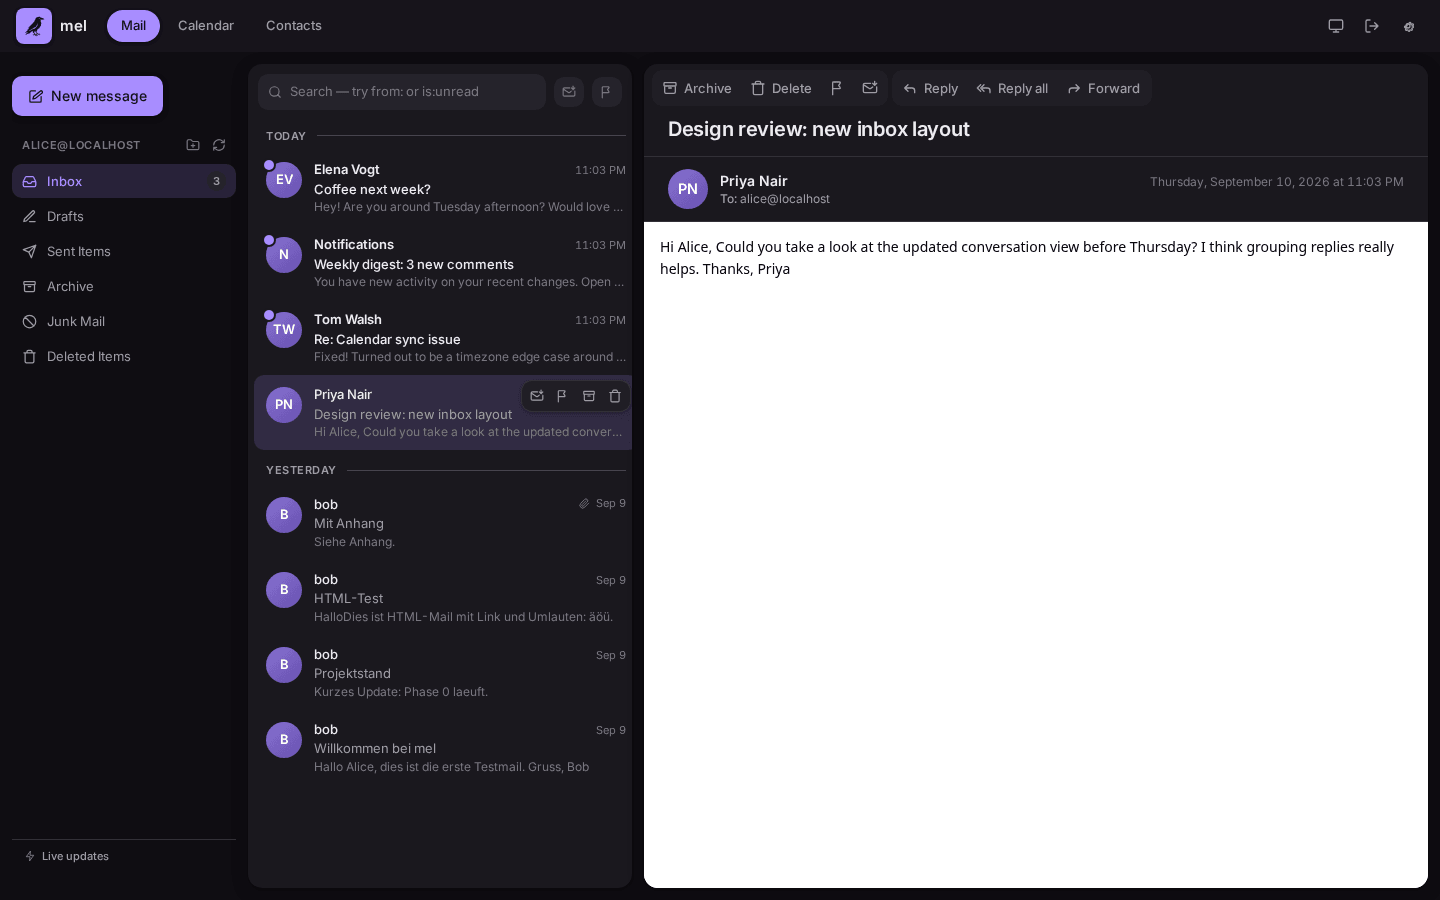
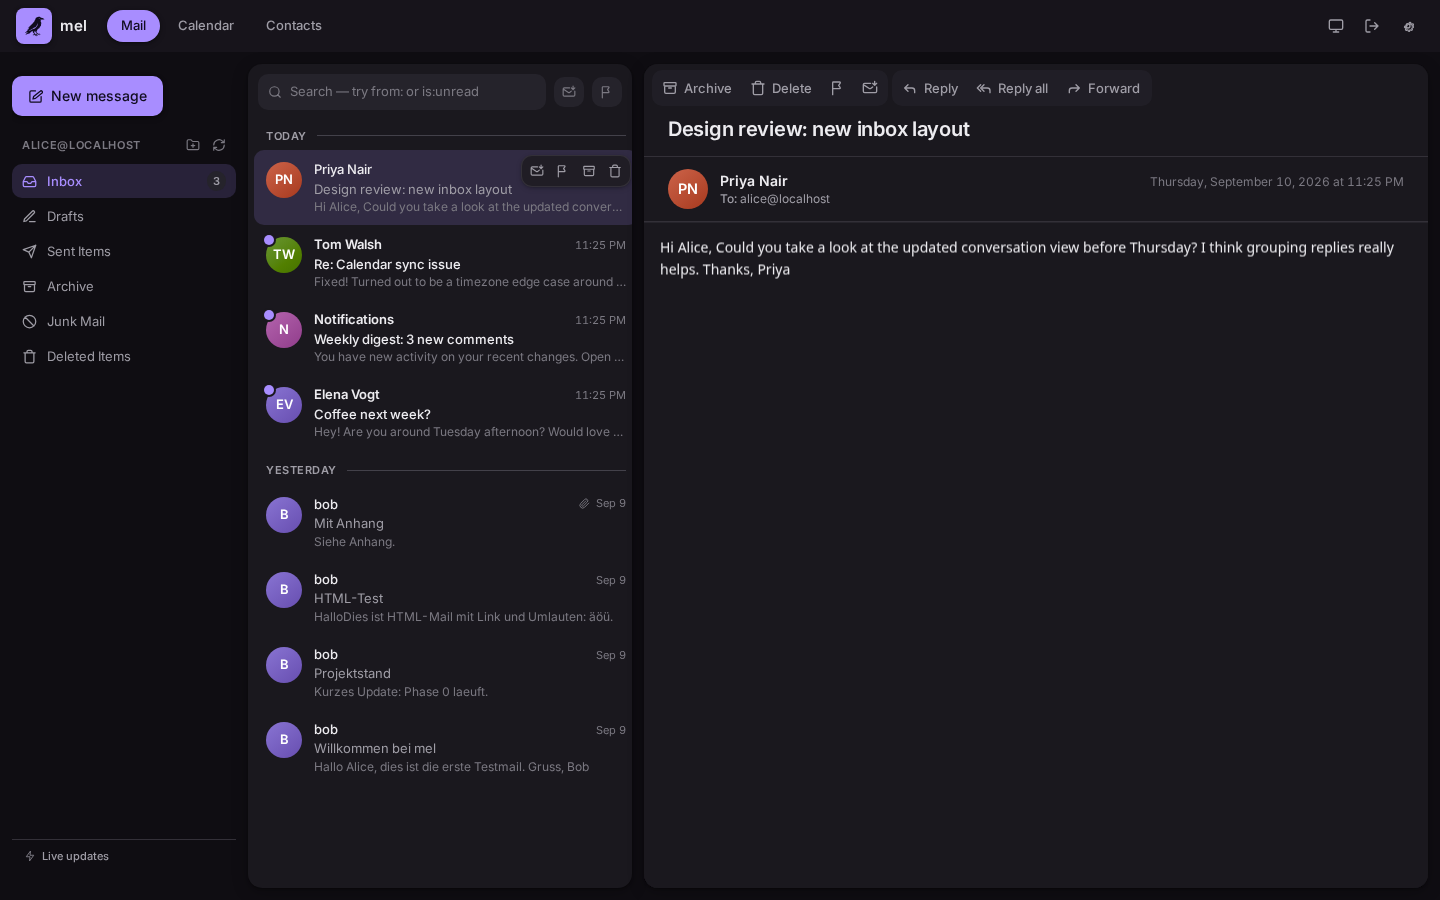
Fix plain-text mail always rendering on white, regenerate README screenshots
Stalwart mirrors a plain-text part into htmlBody per RFC 8621 §4.1.4 when a
message has no real HTML alternative; toEmailBody() trusted the mere
presence of htmlBody and rendered it via mailFrameDoc, which is always
white by design for real HTML mail. That meant plain-text messages ignored
the app's dark theme in the reading pane. toEmailBody() now only treats a
part as HTML when its own type is text/html.

Also adds scripts/screenshot-readme.mjs to regenerate the README
screenshots: seeds a demo conversation, shoots both color schemes, and
cleans up after itself. Needed because a full-page screenshot sometimes
fails to paint the reading pane's sandboxed srcDoc iframe (a Chromium
compositing quirk, not an app bug) — the script works around it by
compositing the page and iframe captures via canvas.

diff --git a/src/providers/jmap/mappers/mail.test.ts b/src/providers/jmap/mappers/mail.test.ts
@@ -1,0 +1,44 @@
+import { describe, expect, it } from 'vitest'
+import type { JmapEmail } from '../client/types/mail'
+import { toEmailBody } from './mail'
+
+const base: Omit<JmapEmail, 'htmlBody' | 'textBody' | 'bodyValues'> = {
+  id: 'e1',
+  blobId: 'b1',
+  threadId: 't1',
+  mailboxIds: {},
+  keywords: {},
+  from: [],
+  to: [],
+  cc: [],
+  receivedAt: '2026-01-01T00:00:00Z',
+  size: 0,
+}
+
+describe('toEmailBody', () => {
+  it('treats a plain-text message as text, not HTML, even when the server mirrors it into htmlBody', () => {
+    // RFC 8621 §4.1.4: a message with no real HTML part still gets a
+    // `htmlBody` pointing at the plain-text part. Stalwart does this.
+    const e: JmapEmail = {
+      ...base,
+      htmlBody: [{ partId: '0', blobId: 'b', size: 10, name: null, type: 'text/plain', disposition: null, cid: null }],
+      textBody: [{ partId: '0', blobId: 'b', size: 10, name: null, type: 'text/plain', disposition: null, cid: null }],
+      bodyValues: { '0': { value: 'Hello there' } },
+    }
+    const body = toEmailBody(e)
+    expect(body.html).toBeNull()
+    expect(body.text).toBe('Hello there')
+  })
+
+  it('keeps a real HTML part as html', () => {
+    const e: JmapEmail = {
+      ...base,
+      htmlBody: [{ partId: '0', blobId: 'b', size: 10, name: null, type: 'text/html', disposition: null, cid: null }],
+      textBody: [{ partId: '1', blobId: 'b2', size: 5, name: null, type: 'text/plain', disposition: null, cid: null }],
+      bodyValues: { '0': { value: '<p>Hi</p>' }, '1': { value: 'Hi' } },
+    }
+    const body = toEmailBody(e)
+    expect(body.html).toBe('<p>Hi</p>')
+    expect(body.text).toBe('Hi')
+  })
+})

diff --git a/src/providers/jmap/mappers/mail.ts b/src/providers/jmap/mappers/mail.ts
@@ -71,10 +71,27 @@ function partText(e: JmapEmail, parts: JmapEmailBodyPart[] | undefined): string 
   return chunks.length ? chunks.join('\n') : null
 }
 
+/**
+ * Per RFC 8621 §4.1.4, a message with no real HTML part still gets a
+ * `htmlBody` — the server is allowed to point it at the same plain-text part
+ * as `textBody` rather than leave it empty. Stalwart does exactly that, so
+ * `htmlBody` alone cannot tell "real HTML" from "plain text mirrored in both
+ * lists" apart; only the part's own `type` can. Without this check every
+ * plain-text message was treated as HTML mail, which always renders on a
+ * fixed white background (see mailFrameDoc) — so plain text never picked up
+ * the app's dark theme in the reading pane.
+ */
+function htmlPartText(e: JmapEmail, parts: JmapEmailBodyPart[] | undefined): string | null {
+  if (!parts?.length || !parts.every((p) => p.type?.toLowerCase().startsWith('text/html'))) {
+    return null
+  }
+  return partText(e, parts)
+}
+
 export function toEmailBody(e: JmapEmail): EmailBody {
   return {
     emailId: e.id,
-    html: partText(e, e.htmlBody),
+    html: htmlPartText(e, e.htmlBody),
     text: partText(e, e.textBody),
     messageId: e.messageId ?? null,
     references: e.references ?? null,
